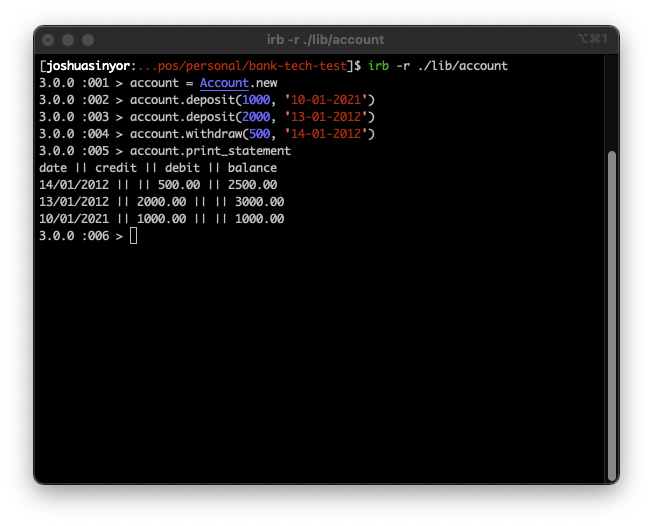
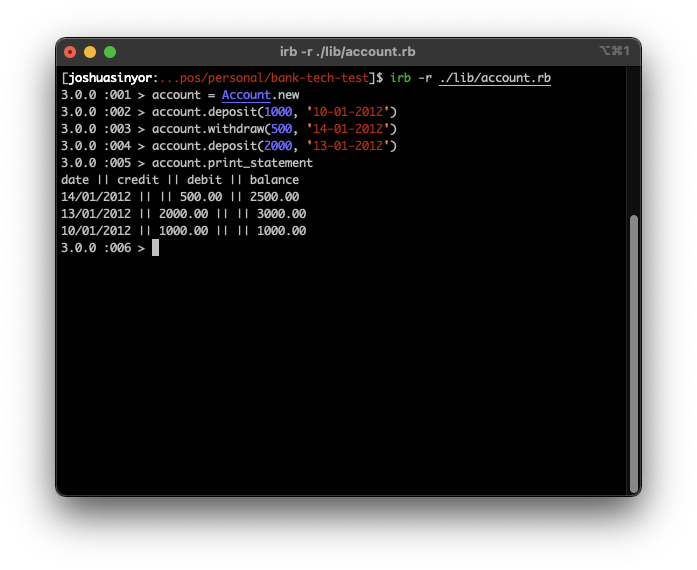
Deploy date sorting improvement.

Changed region(s): [[0.0306, 0.0304, 0.9801, 0.943]]

diff --git a/lib/printer.rb b/lib/printer.rb
@@ -4,7 +4,9 @@
 class Printer
   def print(array)
     print_header
-    print_transactions(deep_copy(array)) unless array.empty?
+    array = deep_copy(array)
+    process_array(array) unless array.empty?
+    print_array(array) unless array.empty?
   end
 
   private
@@ -19,10 +21,23 @@ class Printer
     Marshal.load(Marshal.dump(array))
   end
 
-  def print_transactions(array)
+  def process_array(array)
+    array.sort_by! { |x| x[:date] }
+    add_balance(array, 0)
+    array.sort_by! { |x| x[:date] }.reverse!
+  end
+
+  def add_balance(array, balance)
+    array.map do |row|
+      balance += row[:sum]
+      row[:balance] = balance
+    end
+  end
+
+  def print_array(array)
     array.map do |row|
       format_row(row)
-      puts "#{row[:date]} || #{row[:credit]}|| #{row[:debit]}|| #{row[:balance]}"
+      print_row(row)
     end
   end
 
@@ -30,5 +45,9 @@ class Printer
     row[:date] = row[:date].strftime('%d/%m/%Y')
     row[:sum].positive? ? row[:credit] = format('%.02f ', row[:sum]) : row[:debit] = format('%.02f ', -row[:sum])
     row[:balance] = format('%.02f', row[:balance])
+  end
+
+  def print_row(row)
+    puts "#{row[:date]} || #{row[:credit]}|| #{row[:debit]}|| #{row[:balance]}"
   end
 end

diff --git a/spec/units/printer_spec.rb b/spec/units/printer_spec.rb
@@ -6,12 +6,12 @@ describe Printer do
   subject(:printer) { described_class.new }
 
   let(:test_array) { TEST_ARRAY }
+  let(:output) { capture_stdout { printer.print(test_array) } }
 
   it { is_expected.to respond_to :print }
 
   describe '#print_header' do
     it 'on the first line' do
-      output = capture_stdout { printer.print(test_array) }
       expect(output).to start_with(Printer::HEADER)
     end
 
@@ -21,10 +21,20 @@ describe Printer do
     end
   end
 
-  describe '#print_transactions' do
+  describe '#process_array' do
+    it 'in descending date order' do
+      array = []
+      output.split("\n").each { |x| array.push x[0, 10] }
+
+      array[1..-2].each_with_index do |x, i|
+        expect(DateTime.parse(x).jd).to be >= DateTime.parse(array[i + 2]).jd
+      end
+    end
+  end
+
+  describe '#print_array' do
     it 'starting on the second line' do
-      output = capture_stdout { printer.print(test_array) }
-      expect(output.split("\n")[1]).to eq TEST_ARRAY_OUTPUT
+      expect(output.split("\n")[1]).to eq TEST_ARRAY_OUTPUT.split("\n")[1]
     end
   end
 end

diff --git a/spec/test_helpers.rb b/spec/test_helpers.rb
@@ -10,10 +10,17 @@ RANDOM_DATE_OBJECT = DateTime.new(RANDOM_DATE.split('-')[2].to_i,
 
 RANDOM_DATE_OUTPUT = RANDOM_DATE_OBJECT.strftime('%d/%m/%Y')
 
-TEST_ARRAY = [{ date: RANDOM_DATE_OBJECT, sum: RANDOM_SUM, balance: RANDOM_SUM }].freeze
+TEST_ARRAY = [{ date: DateTime.jd(2455937), sum: 1000 },
+              { date: DateTime.jd(2455941), sum: -500 },
+              { date: DateTime.jd(2455940), sum: 2000 }].freeze
 
-TEST_ARRAY_OUTPUT = "#{RANDOM_DATE_OUTPUT} || #{format('%.02f ',
-                                                       RANDOM_SUM)}|| || #{format('%.02f', RANDOM_SUM)}".freeze
+TEST_ARRAY_OUTPUT =
+  <<~HEREDOC
+    date || credit || debit || balance
+    14/01/2012 || || 500.00 || 2500.00
+    13/01/2012 || 2000.00 || || 3000.00
+    10/01/2012 || 1000.00 || || 1000.00
+  HEREDOC
 
 ###
 

diff --git a/spec/units/transactions_spec.rb b/spec/units/transactions_spec.rb
@@ -5,14 +5,9 @@ require 'transactions'
 describe Transactions do
   subject(:transactions) { described_class.new }
 
-  it { is_expected.to respond_to :balance }
   it { is_expected.to respond_to :array }
 
   describe '#initialize' do
-    it 'with a #balance of 0' do
-      expect(transactions.balance).to eq 0
-    end
-
     it 'with an empty #transactions_array' do
       expect(transactions.array).to be_empty
     end

diff --git a/spec/features/acceptance_criteria_spec.rb b/spec/features/acceptance_criteria_spec.rb
@@ -7,8 +7,8 @@ describe 'Feature Test' do
     [
       'account = Account.new',
       "account.deposit(1000, '10-01-2012')",
-      "account.deposit(2000, '13-01-2012')",
       "account.withdraw(500, '14-01-2012')",
+      "account.deposit(2000, '13-01-2012')",
       'account.print_statement'
     ].freeze
   end

diff --git a/README.md b/README.md
@@ -41,12 +41,13 @@ The specification of the improved tech test is as follows:
 ### Requirements
 
 1. [x] All REPL output should be suppressed unless commanded by the execution of `account.print_statement`.
+2. [x] All transactions should be sorted by date upon execution of the command `account.print_statement`.
 
 ### Acceptance Criteria
 
 > Given a client makes a deposit of 1000 on 10-01-2012, and\
-> A deposit of 2000 on 13-01-2012, and\
-> A withdrawal of 500 on 14-01-2012;\
+> A withdrawal of 500 on 14-01-2012, and\
+> A deposit of 2000 on 13-01-2012;\
 > When she prints her bank statement,\
 > Then she would see:
 
@@ -85,6 +86,6 @@ Print an account statement to console by executing `account.print_statement`. Ac
 
 ### Final Appearance
 
-As per the instructions, this program runs exclusively in a REPL. It is pictured below executing the instructions in the original Acceptance Criteria.
+As per the instructions, this program runs exclusively in a REPL. It is pictured below executing the instructions in the updated form of the original Acceptance Criteria.
 
 ![final_appearance_screenshot](docs/final_appearance_screenshot.png)
